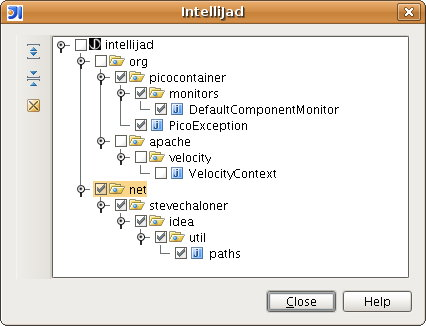
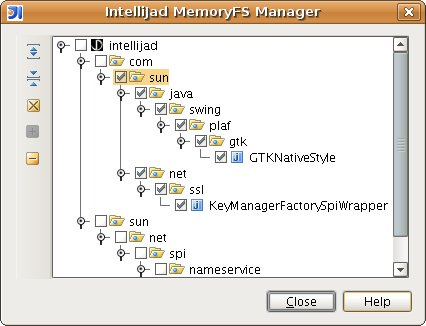
- Added attach/detach memory VFS controls to memory VFS manager

diff --git a/src/help/help-content/memory-vfs-manager.html b/src/help/help-content/memory-vfs-manager.html
@@ -36,7 +36,25 @@
         </tr>
         <tr>
             <td>Delete</td>
-            <td>Delete all selected files.</td>
+            <td>Delete all selected files from the memory VFS.  This only affects decompiled sources, it will not
+                affect classes in any way.</td>
+        </tr>
+        <tr>
+            <td>Attach IntelliJad memory VFS as source root</td>
+            <td>
+                Manually attaches the memory VFS to the project SDK's source roots.  This operation occurs automatically
+                on decompilation, but this option allows you to attach it if you have removed it, either using the
+                "Remove IntelliJad memory VFS from source root" option or via the JDK manager.  If the memory VFS is
+                already attached to the project SDK, this option will be disabled.
+            </td>
+        </tr>
+        <tr>
+            <td>Remove IntelliJad memory VFS from source root</td>
+            <td>
+                Removes the memory VFS from the project SDK's source roots.  This is the same as manually removing the
+                source root using the JDK manager.  If the memory VFS is not attached to the project SDK, this option
+                will be disabled.
+            </td>
         </tr>
     </table>
 </div>

diff --git a/src/java/net/stevechaloner/intellijad/vfs/MemoryFileSystemManager.java b/src/java/net/stevechaloner/intellijad/vfs/MemoryFileSystemManager.java
@@ -14,17 +14,21 @@
  */
 package net.stevechaloner.intellijad.vfs;
 
+import com.intellij.openapi.application.Application;
+import com.intellij.openapi.application.ApplicationManager;
 import com.intellij.openapi.fileEditor.FileEditorManager;
 import com.intellij.openapi.project.Project;
+import com.intellij.openapi.projectRoots.ProjectJdk;
+import com.intellij.openapi.projectRoots.ProjectRootType;
+import com.intellij.openapi.projectRoots.SdkModificator;
+import com.intellij.openapi.roots.ProjectRootManager;
 import com.intellij.openapi.vfs.VirtualFile;
 import com.intellij.openapi.vfs.VirtualFileManager;
-
 import net.stevechaloner.intellijad.IntelliJad;
 import net.stevechaloner.intellijad.IntelliJadConstants;
 import net.stevechaloner.intellijad.IntelliJadResourceBundle;
 import net.stevechaloner.intellijad.gui.tree.CheckBoxTree;
 import net.stevechaloner.intellijad.gui.tree.CheckBoxTreeNode;
-
 import org.jetbrains.annotations.NotNull;
 import org.jetbrains.annotations.Nullable;
 
@@ -72,6 +76,8 @@ public class MemoryFileSystemManager
      * The node delete button.
      */
     private JButton deleteButton;
+    private JButton attachIntelliJadRootButton;
+    private JButton detachIntelliJadRootButton;
 
     /**
      * Initialises a new instance of this
@@ -100,6 +106,91 @@ public class MemoryFileSystemManager
             public void actionPerformed(ActionEvent e)
             {
                 delete(project);
+            }
+        });
+
+        if (project == null)
+        {
+            attachIntelliJadRootButton.setEnabled(false);
+            detachIntelliJadRootButton.setEnabled(false);
+        }
+        else
+        {
+            initSourceRootControls(project);
+        }
+    }
+
+    /**
+     * Initialises the controls to attach/detach the memory VFS root as
+     * a source root to the project SDK.
+     *
+     * @param project the project
+     */
+    private void initSourceRootControls(@NotNull final Project project)
+    {
+        boolean attached = false;
+        MemoryVirtualFileSystem vfs = (MemoryVirtualFileSystem) VirtualFileManager.getInstance().getFileSystem(IntelliJadConstants.INTELLIJAD_PROTOCOL);
+        final VirtualFile sourceRoot = vfs.findFileByPath(IntelliJadConstants.INTELLIJAD_ROOT);
+        ProjectJdk projectJdk = ProjectRootManager.getInstance(project).getProjectJdk();
+        final SdkModificator sdkModificator = (projectJdk != null) ? projectJdk.getSdkModificator() : null;
+        if (sdkModificator != null)
+        {
+            VirtualFile[] files = sdkModificator.getRoots(ProjectRootType.SOURCE);
+            for (int i = 0; !attached && i < files.length; i++)
+            {
+                if (files[i].equals(sourceRoot))
+                {
+                    attached = true;
+                }
+            }
+        }
+
+        attachIntelliJadRootButton.setEnabled(!attached);
+        detachIntelliJadRootButton.setEnabled(attached);
+
+        final Application application = ApplicationManager.getApplication();
+        detachIntelliJadRootButton.addActionListener(new ActionListener()
+        {
+            public void actionPerformed(ActionEvent event)
+            {
+                application.runWriteAction(new Runnable()
+                {
+                    public void run()
+                    {
+                        if (sdkModificator != null)
+                        {
+                            sdkModificator.removeRoot(sourceRoot,
+                                                      ProjectRootType.SOURCE);
+                            sdkModificator.commitChanges();
+                        }
+                    }
+                });
+                attachIntelliJadRootButton.setEnabled(true);
+                detachIntelliJadRootButton.setEnabled(false);
+                project.putUserData(IntelliJadConstants.SDK_SOURCE_ROOT_ATTACHED,
+                                    Boolean.TRUE);
+            }
+        });
+        attachIntelliJadRootButton.addActionListener(new ActionListener()
+        {
+            public void actionPerformed(ActionEvent event)
+            {
+                application.runWriteAction(new Runnable()
+                {
+                    public void run()
+                    {
+                        if (sdkModificator != null)
+                        {
+                            sdkModificator.addRoot(sourceRoot,
+                                                   ProjectRootType.SOURCE);
+                            sdkModificator.commitChanges();
+                        }
+                    }
+                });
+                attachIntelliJadRootButton.setEnabled(false);
+                detachIntelliJadRootButton.setEnabled(true);
+                project.putUserData(IntelliJadConstants.SDK_SOURCE_ROOT_ATTACHED,
+                                    Boolean.FALSE);
             }
         });
     }

diff --git a/src/java/net/stevechaloner/intellijad/IntelliJad.java b/src/java/net/stevechaloner/intellijad/IntelliJad.java
@@ -283,7 +283,7 @@ public class IntelliJad implements ApplicationComponent,
      */
     private void checkSDKRoot(final Project project)
     {
-        if (project.getUserData(IntelliJadConstants.SDK_SOURCE_ROOT_ATTACHED) == null)
+        if (project.getUserData(IntelliJadConstants.SDK_SOURCE_ROOT_ATTACHED) != Boolean.TRUE)
         {
             MemoryVirtualFileSystem vfs = (MemoryVirtualFileSystem) VirtualFileManager.getInstance().getFileSystem(IntelliJadConstants.INTELLIJAD_PROTOCOL);
             checkSDKRoot(project,
